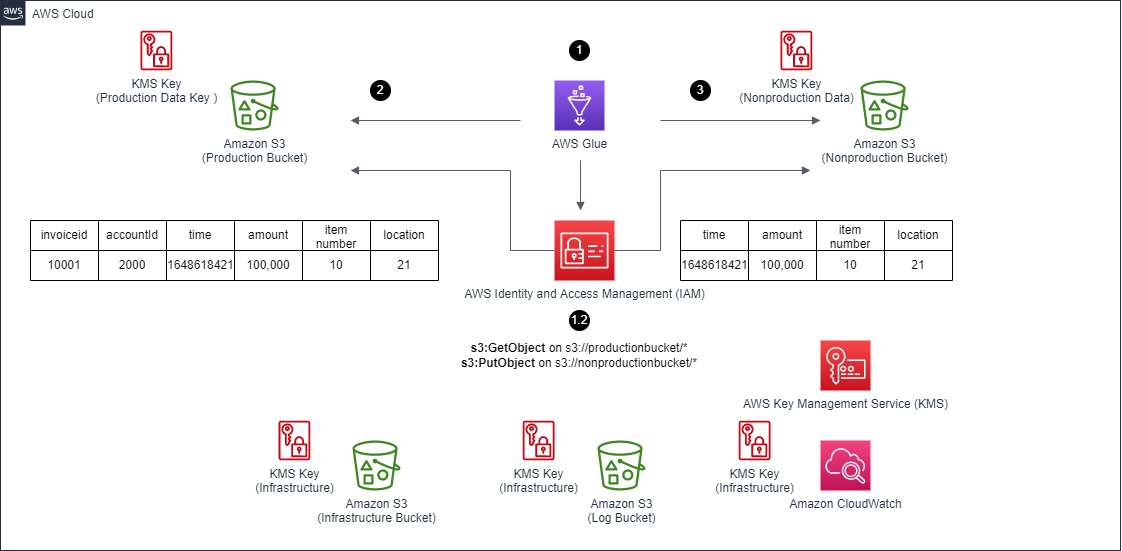
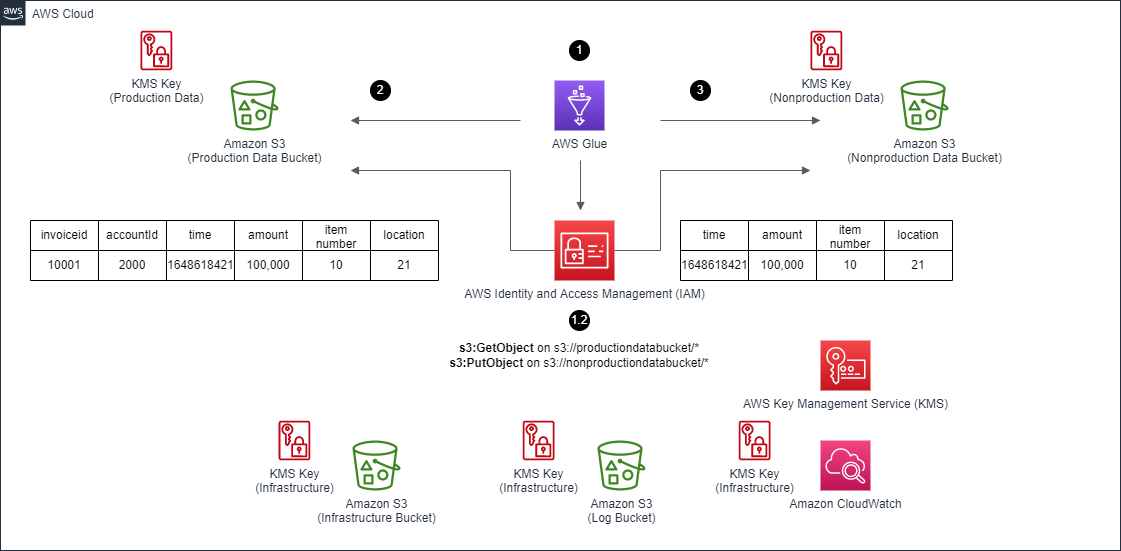
Update README and images

diff --git a/README.md b/README.md
@@ -38,18 +38,18 @@ The sample code is acting as a high-level implementation, following should be ad
 ## Target technology stack  
 
 ### S3 Buckets
-One Amazon S3 bucket `productionBucket` is setup to represent production data storage solution. It is encrypted with [AWS Key Management Service (KMS) Key](https://aws.amazon.com/kms/) `productionKey`.
+One Amazon S3 bucket `productionDataBucket` is setup to represent production data storage solution. It is encrypted with [AWS Key Management Service (KMS) Key](https://aws.amazon.com/kms/) `productionDataKey`.
 
-One Amazon S3 bucket to represent the lower environment storage solution. It is encrypted with [AWS Key Management Service (KMS) Key](https://aws.amazon.com/kms/) `nonproductionKey`.
+One Amazon S3 bucket to represent the lower environment storage solution `nonproductionDataBucket`. It is encrypted with [AWS Key Management Service (KMS) Key](https://aws.amazon.com/kms/) `nonproductionDataKey`.
 
-One Amazon S3 bucket `infrastructureBucket` is setup to store Glue scripts/other internal scripts in future. It is encrypted with [AWS Key Management Service (KMS) Key](https://aws.amazon.com/kms/) `productionKey`.
+One Amazon S3 bucket `infrastructureBucket` is setup to store Glue scripts/other internal scripts in future. It is encrypted with [AWS Key Management Service (KMS) Key](https://aws.amazon.com/kms/) `infrastructureKey`.
 
-One Amazon S3 bucket `logBucket` is setup to store logs from Glue job executions/other infrastructure. It is possible to output most logs into [Amazon CloudWatch Logs](https://aws.amazon.com/cloudwatch/). But depend on use cases/libraries, may also prefer to store log output into S3 bucket. It is encrypted with [AWS Key Management Service (KMS) Key](https://aws.amazon.com/kms/) `productionKey`.
+One Amazon S3 bucket `logBucket` is setup to store logs from Glue job executions/other infrastructure. It is possible to output most logs into [Amazon CloudWatch Logs](https://aws.amazon.com/cloudwatch/). But depend on use cases/libraries, may also prefer to store log output into S3 bucket. It is encrypted with [AWS Key Management Service (KMS) Key](https://aws.amazon.com/kms/) `infrastructureKey`.
 
-The difference of keys is to simulate real - world behavior as business will use different AWS KMS key for each environment. The buckets in this case are in same account. But a similar setup can be done for buckets between different accounts with correct [AWS Identity and Access Management (IAM)](https://aws.amazon.com/iam/) setup. More detail can be found in the [doc](https://aws.amazon.com/premiumsupport/knowledge-center/cross-account-access-s3/).
+The difference of keys is to simulate real - world behavior as business will use different AWS KMS key for different environments. These buckets are in the same account. But a similar setup can be done for buckets between different accounts with correct [AWS Identity and Access Management (IAM)](https://aws.amazon.com/iam/) setup. More detail can be found in the [doc](https://aws.amazon.com/premiumsupport/knowledge-center/cross-account-access-s3/).
 
 
-Glue Job Setup
+### Glue Job Setup
 AWS Glue supports S3 Bucket (can point to specific prefix) as data source and data target.
 
 This opens up possibility for use case to move production data to lower environment with data sanitization:
@@ -59,7 +59,7 @@ This opens up possibility for use case to move production data to lower environm
 
 It is possible to do data content level manipulation, but recommend to keep at field level as a simpler start point.
 
-In this sample, the Glue job will read input CSV files from `productionBucket`, which have following fields:
+In this sample, the Glue job will read input CSV files from `productionDataBucket`, which have following fields:
 
 | invoiceId |	accountId |	purchaseTime |	purchaseAmount |	purchaseItemNumber |	location |
 | --- | --- | --- | --- | --- | --- |
@@ -67,7 +67,7 @@ In this sample, the Glue job will read input CSV files from `productionBucket`, 
 
 The Glue job will remove user sensitive fields: `invoiceId` and `accountId` during the ETL process. Note removal fields may depend on business use cases. The field `location` in this case is a coarse identifier not directly tie to user, so it is kept to be utilized in the lower environment analyze.
 
-Glue job will then upload processed data into `nonProductionBucket`, which will only contain following fields:
+Glue job will then upload processed data into `nonproductionDataBucket`, which will only contain following fields:
 
 | purchaseTime |	purchaseAmount |	purchaseItemNumber |	location |
 | --- | --- | --- | --- |
@@ -87,7 +87,7 @@ AWS Glue job will require an explicit IAM role to be assigned. This code sample 
 
 The role only has `READ` privileges (S3 bucket and correspond KMS key access) to `productionBucket` and `infrastructureBucket` as it should not be able to modify data/nor script in production.
 
-The role has `READ/WRITE` privileges (S3 bucket and correspond KMS key access) to `nonproductionBucket` and `logBucket` to write processed data and logs.
+The role has `READ/WRITE` privileges (S3 bucket and correspond KMS key access) to `nonproductionDataBucket` and `logBucket` to write processed data and logs.
 
 This allows the finer detail security lock down to ensure the job cannot modify production data nor access areas outside of its task.
 
@@ -125,13 +125,13 @@ But please adjust as needed base on use case in `<git repo>/lib/glue-data-saniti
 
 ### Overall Flow
 1. AWS Glue job starts.
-2. The job downloads Glue scripts from `infrastructureBucket` through its IAM role and `productionKey` KMS key to unencrypt data.
-3. The job downloads data from data source `productionBucket` through its IAM role and `productionKey` KMS key to unencrypt data.
-4. During the job ETL processes, will output logs into CloudWatch Logs/S3 Bucket`logBucket` through its IAM role and `productionKey` KMS key to encrypt/unencrypt logs. The Glue job will remove user sensitive fields: `invoiceId` and `accountId` during the ETL process.
-5. The job uploads final processed data into data target `nonproductionBucket` through its IAM role and `nonproductionKey` KMS key to encrypt data.
+2. The job downloads Glue scripts from `infrastructureBucket` through its IAM role and `infrastructureKey` KMS key to unencrypt data.
+3. The job downloads data from data source `productionDataBucket` through its IAM role and `productionDataKey` KMS key to unencrypt data.
+4. During the job ETL processes, will output logs into CloudWatch Logs/S3 Bucket`logBucket` through its IAM role and `infrastructureKey` KMS key to encrypt/unencrypt logs. The Glue job will remove user sensitive fields: `invoiceId` and `accountId` during the ETL process.
+5. The job uploads final processed data into data target `nonproductionDataBucket` through its IAM role and `nonproductionDataKey` KMS key to encrypt data.
 
 ## Deploy / Clean up
-Deploy this stack to your default AWS account/region (assume [AWS CDK](https://aws.amazon.com/cdk/) 2.1.0 or later installed)
+Deploy this stack to your default AWS account/region (assume [AWS CDK](https://aws.amazon.com/cdk/) 2.20.0 or later installed)
 
 IMPORTANT: Please save the output from Outputs section from stack deployment below as it will be used in later stories
 
@@ -174,7 +174,7 @@ aws s3 sync . s3://gluedatasanitizationfrom-internalinfrastructurebu-147oidtt8rv
 cd ..
 ```
 
-6. Copy the sample data to `production` S3 bucket
+6. Copy the sample data to `productionDataBucket` S3 bucket
 
 In the git repo, please open a terminal, ensure AWS CLI credential is valid, then perform following:
 ```
@@ -196,7 +196,7 @@ cd ..
 Please first go to AWS Console -> Services -> Glue -> Jobs -> Select job `glue-etl-job` -> Click on `Run` to execute the job
 Note: Only one execution can happen at a time
 
-8. Verify the data in `nonproduction` S3 bucket
+8. Verify the data in `nonproductionDataBucket` S3 bucket
 In an empty temp directory that data can be downloaded, please open a terminal, ensure AWS CLI credential is valid, then perform following:
 ```
 aws s3 sync s3://<NonproductionDataBucket>/ .
